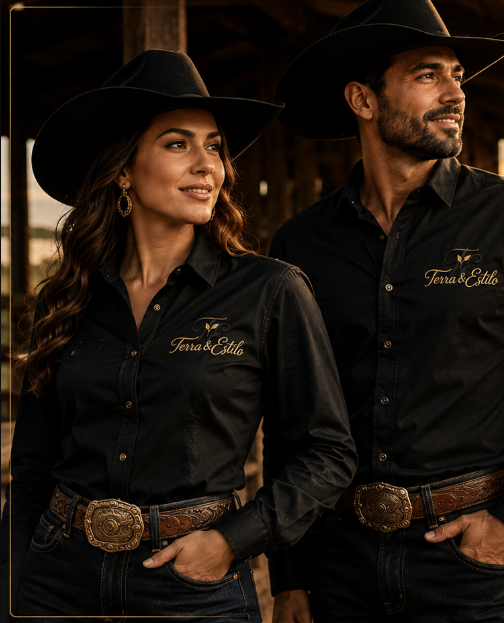
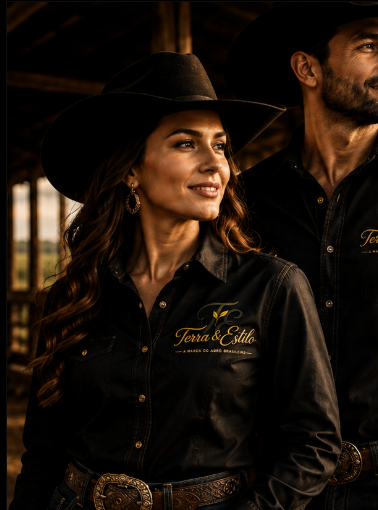
ajuste

diff --git a/src/home.css b/src/home.css
@@ -1170,9 +1170,9 @@
   padding: 0;
   border: none;
   object-fit: cover;
-  /* Hats near top; faces + embroidery readable; logo seam clear of faces */
-  object-position: 48% 20%;
-  filter: brightness(1.04) contrast(1.03) saturate(0.96);
+  /* Favor faces/hats; keep embroidery; avoid right-edge seam */
+  object-position: 42% 18%;
+  filter: brightness(1.05) contrast(1.04) saturate(0.97);
   transform: none;
   -webkit-mask-image: none;
   mask-image: none;
@@ -1480,8 +1480,8 @@
   }
 
   .brand-hero__models-image {
-    object-position: 46% 18%;
-    filter: brightness(1.04) contrast(1.03) saturate(0.96);
+    object-position: 40% 16%;
+    filter: brightness(1.05) contrast(1.04) saturate(0.97);
     transform: none;
   }
 
@@ -1583,7 +1583,7 @@
   }
 
   .brand-hero__models-image {
-    object-position: 45% 16%;
+    object-position: 38% 14%;
   }
 
   .brand-hero__logo {
@@ -1916,9 +1916,9 @@
   max-height: none;
   margin: 0;
   object-fit: cover;
-  /* Shorter band: favor embroidery / shoulders while keeping hats */
-  object-position: 48% 26%;
-  filter: brightness(1.04) contrast(1.03) saturate(0.96);
+  /* Shorter band: favor faces / embroidery while keeping hats */
+  object-position: 42% 24%;
+  filter: brightness(1.05) contrast(1.04) saturate(0.97);
   transform: none;
   -webkit-mask-image: none;
   mask-image: none;
@@ -2176,9 +2176,9 @@
     height: 100%;
     max-height: none;
     object-fit: cover;
-    object-position: 46% 18%;
+    object-position: 40% 16%;
     transform: none;
-    filter: brightness(1.04) contrast(1.03) saturate(0.96);
+    filter: brightness(1.05) contrast(1.04) saturate(0.97);
     -webkit-mask-image: none;
     mask-image: none;
   }

diff --git a/src/preview.css b/src/preview.css
@@ -18,8 +18,8 @@
 
 .desktop-preview .brand-hero__models-image {
   object-fit: cover;
-  object-position: 48% 20%;
-  filter: brightness(1.04) contrast(1.03) saturate(0.96);
+  object-position: 42% 18%;
+  filter: brightness(1.05) contrast(1.04) saturate(0.97);
   transform: none;
   -webkit-mask-image: none;
   mask-image: none;
@@ -419,8 +419,8 @@
   width: 100%;
   height: 100%;
   object-fit: cover;
-  object-position: 45% 16%;
-  filter: brightness(1.04) contrast(1.03) saturate(0.96);
+  object-position: 38% 14%;
+  filter: brightness(1.05) contrast(1.04) saturate(0.97);
   transform: none;
   -webkit-mask-image: none;
   mask-image: none;
@@ -831,8 +831,8 @@
   width: 100%;
   height: 100%;
   object-fit: cover;
-  object-position: 45% 16%;
-  filter: brightness(1.04) contrast(1.03) saturate(0.96);
+  object-position: 38% 14%;
+  filter: brightness(1.05) contrast(1.04) saturate(0.97);
   transform: none;
   -webkit-mask-image: none;
   mask-image: none;
@@ -952,8 +952,8 @@
   height: 100%;
   max-height: none;
   object-fit: cover;
-  object-position: 46% 18%;
-  filter: brightness(1.04) contrast(1.03) saturate(0.96);
+  object-position: 40% 16%;
+  filter: brightness(1.05) contrast(1.04) saturate(0.97);
   transform: none;
 }
 

diff --git a/src/data/homeData.js b/src/data/homeData.js
@@ -9,10 +9,10 @@ export const BRAND_HERO_BOARD_SRC = BRAND_LOGO_CIRCULAR_SRC
 export const BRAND_LOGO_WIDTH = 1024
 export const BRAND_LOGO_HEIGHT = 1024
 export const BRAND_MARBLE_SRC = assetUrl('/images/brand/marble-texture.svg')
-/** Cast photo cropped from terra-estilo-novo-hero mockup (left panel only). */
+/** Cast photo cropped from terra-estilo-hero-novoo mockup (left panel only, before logo ring). */
 export const COUPLE_HERO_SRC = coupleHeroAsset
-export const COUPLE_HERO_WIDTH = 504
-export const COUPLE_HERO_HEIGHT = 623
+export const COUPLE_HERO_WIDTH = 378
+export const COUPLE_HERO_HEIGHT = 510
 
 export const topBarMessages = [
   {
